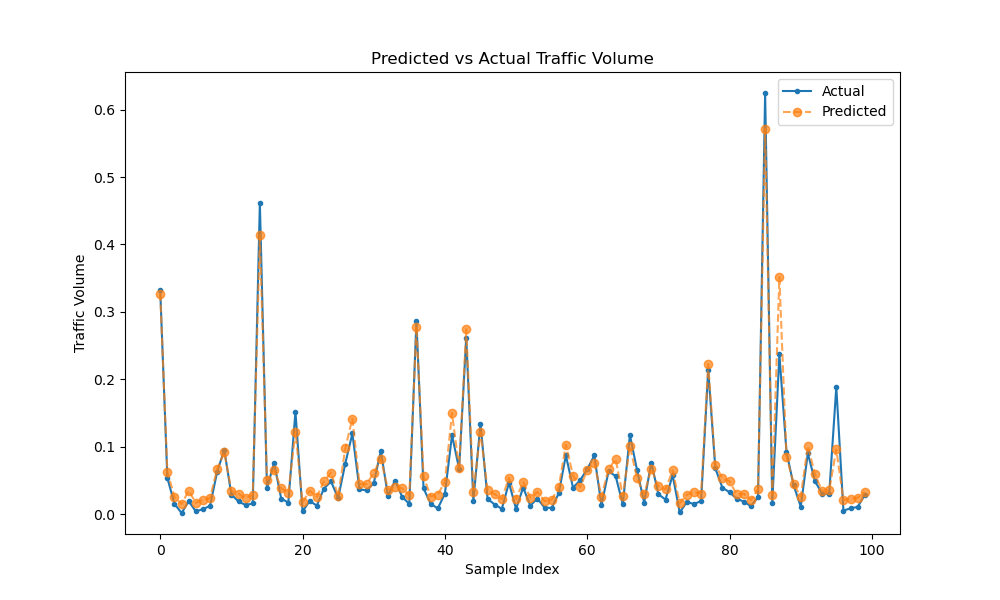
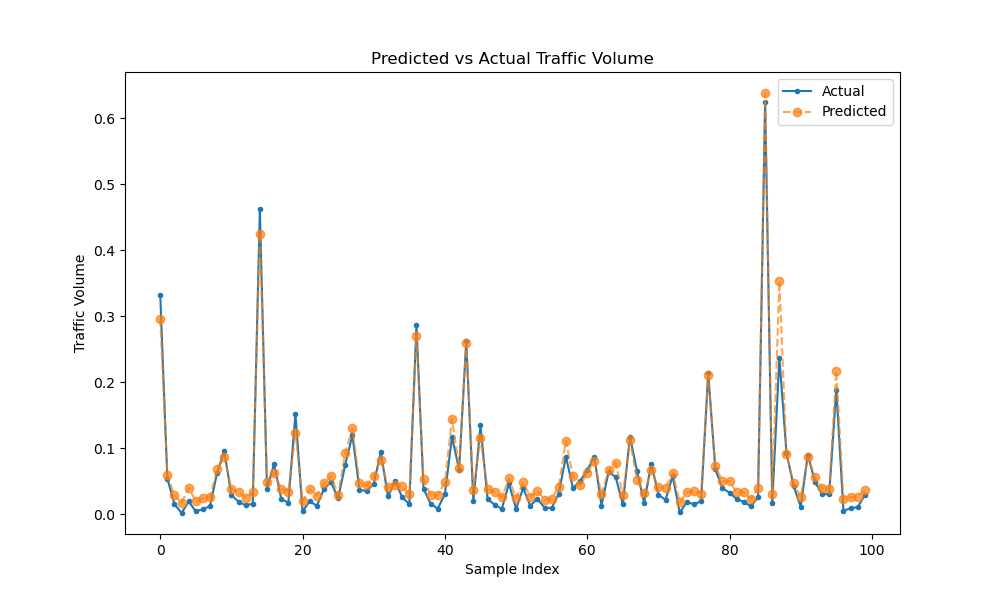
refactored, and trained for 100 epochs

diff --git a/src/model.py b/src/model.py
@@ -11,13 +11,15 @@ from sklearn.preprocessing import MinMaxScaler
 from tensorflow.keras import layers
 from tensorflow.keras.models import Sequential
 from tensorflow.keras.optimizers import Adam
+from contextlib import redirect_stdout
 
 
 
-def create_lstm_model(input_shape):
+
+def create_lstm_model(input_shape, results_dir):
     """
-    Creates and compiles an LSTM model with a Conv1D layer followed by MaxPooling,
-    LSTM, and Dense layers for sequence data processing.
+    Creates and compiles an LSTM model for sequence data processing.
+    This function constructs a model using a single LSTM layer followed by Dense layers.
 
     Parameters:
     - input_shape: Tuple of integers, the shape of the input data (time_steps, features).
@@ -25,18 +27,22 @@ def create_lstm_model(input_shape):
     Returns:
     - Compiled Keras model ready for training.
     """
+
     model = Sequential([
-        layers.Conv1D(filters=64, kernel_size=3, activation='relu', input_shape=input_shape),
-        layers.MaxPooling1D(pool_size=2),
-        layers.LSTM(50, activation='relu'),
+        layers.LSTM(50, activation='relu', input_shape=input_shape),
         layers.Dense(100, activation='relu'),
         layers.Dense(1)
     ])
     model.compile(optimizer=Adam(learning_rate=0.001), loss='mean_squared_error')
+
+    with open(results_dir+'/lstm_model_summary.txt', 'w') as f:
+        with redirect_stdout(f):
+            model.summary()
+
     return model
 
 
-def create_conv_lstm_model(n_steps, n_features, filter_num=64, kernel_size=3, pool_size=2, lstm_units=50, dense_units=100, dropout_rate=0.2, learning_rate=0.001):
+def create_conv_lstm_model(n_steps, n_features, filter_num=64, kernel_size=3, pool_size=2, lstm_units=50, dense_units=100, dropout_rate=0.2, learning_rate=0.001, results_dir="./results"):
     """
     Creates and compiles a Convolutional LSTM model for sequence data processing, integrating
     Conv1D and LSTM layers with Dropout for regularization.
@@ -69,5 +75,10 @@ def create_conv_lstm_model(n_steps, n_features, filter_num=64, kernel_size=3, po
     ])
 
     model.compile(optimizer=Adam(learning_rate=learning_rate), loss='mean_squared_error', metrics=['mean_absolute_error'])
+
+    with open(results_dir+'/conv_lstm_model_summary.txt', 'w') as f:
+        with redirect_stdout(f):
+            model.summary()
+
     return model
 

diff --git a/main.py b/main.py
@@ -25,10 +25,10 @@ def main(datafile):
                                                config["filter_num"], config["kernel_size"],
                                                config["pool_size"], config["lstm_units"],
                                                config["dense_units"], config["dropout_rate"],
-                                               config["learning_rate"])
+                                               config["learning_rate"], config["results_dir"])
     else:
         # Fallback to a default LSTM model if 'conv_lstm' is not specified
-        model_c = model.create_lstm_model((X_train.shape[1], 1))
+        model_c = model.create_lstm_model((X_train.shape[1], 1), config["results_dir"])
 
     # Model training and prediction
     history = train.train_model(model_c, X_train, y_train, epochs=config["epochs"],

diff --git a/config.py b/config.py
@@ -10,11 +10,11 @@ config = {
     "dense_units": 100,
     "dropout_rate": 0.2,
     "learning_rate": 0.001,
-    "epochs": 12,
+    "epochs": 100,
     "batch_size": 32,
     "validation_split": 0.2,
     "verbose": 1,
-    "model_name": "lstm", # lstm or conv_lstm
+    "model_name": "conv_lstm", # lstm or conv_lstm
     "results_dir": "./results",
 }
 

diff --git a/README.md b/README.md
@@ -53,6 +53,62 @@ To run the training process, execute the following command:
 python main.py --datafile /path/to/your/data.csv
 ```
 
+# Model Summary
+
+Here is the summary of the LSTM model used in this project:
+
+## LSTM
+
+Model: "sequential"
+_________________________________________________________________
+ Layer (type)                Output Shape              Param #   
+=================================================================
+ lstm (LSTM)                 (None, 50)                10400     
+                                                                 
+ dense (Dense)               (None, 100)               5100      
+                                                                 
+ dense_1 (Dense)             (None, 1)                 101       
+                                                                 
+=================================================================
+Total params: 15,601
+Trainable params: 15,601
+Non-trainable params: 0
+_________________________________________________________________
+
+
+## CONV + LSTM
+
+Model: "sequential"
+_________________________________________________________________
+ Layer (type)                Output Shape              Param #   
+=================================================================
+ conv1d (Conv1D)             (None, 21, 64)            256       
+                                                                 
+ max_pooling1d (MaxPooling1D  (None, 10, 64)           0         
+ )                                                               
+                                                                 
+ flatten (Flatten)           (None, 640)               0         
+                                                                 
+ reshape (Reshape)           (None, 1, 640)            0         
+                                                                 
+ lstm (LSTM)                 (None, 50)                138200    
+                                                                 
+ dropout (Dropout)           (None, 50)                0         
+                                                                 
+ dense (Dense)               (None, 100)               5100      
+                                                                 
+ dropout_1 (Dropout)         (None, 100)               0         
+                                                                 
+ dense_1 (Dense)             (None, 1)                 101       
+                                                                 
+=================================================================
+Total params: 143,657
+Trainable params: 143,657
+Non-trainable params: 0
+_________________________________________________________________
+
+
+
 ## Output Charts
 
 Generated in the `results/` directory after model execution:
